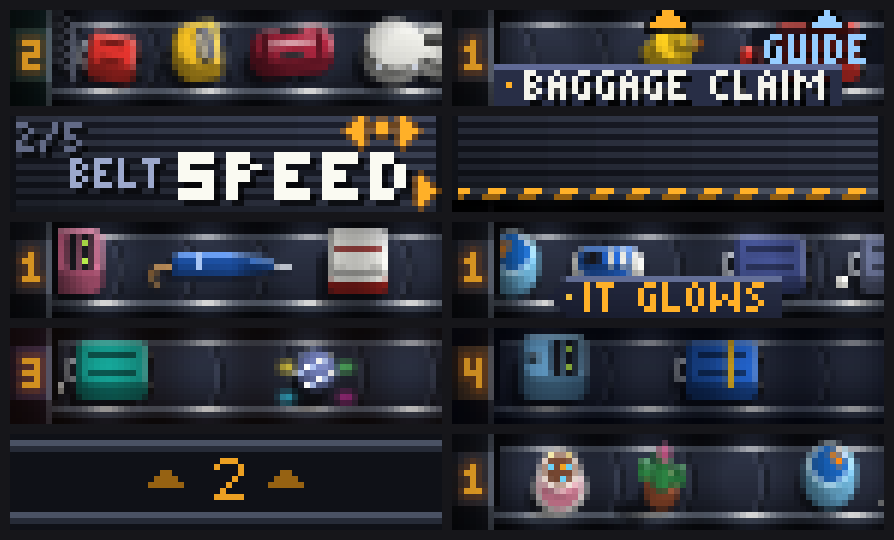
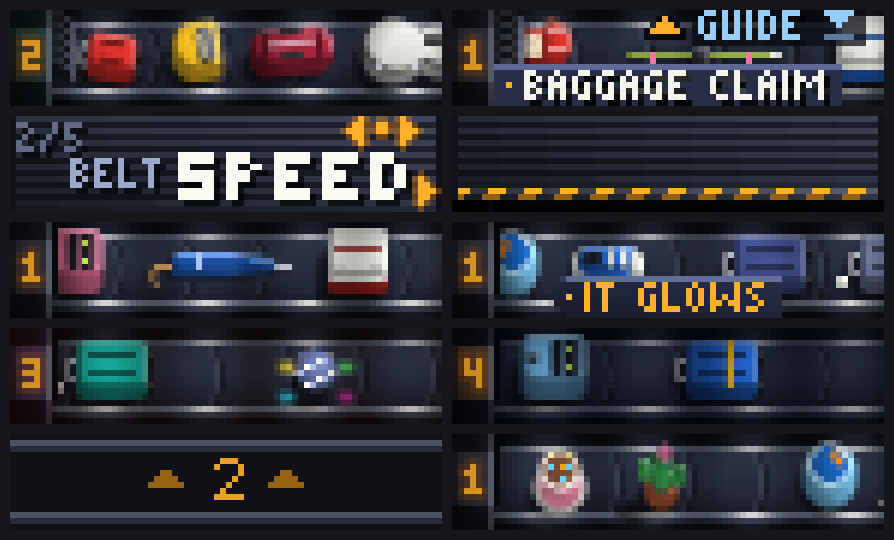
Baggage Claim: one mark for pressing the knob, Start mark that moves

Changed region(s): [[0.6946, 0.0, 0.9966, 0.1778], [0.5436, 0.0, 0.6644, 0.1185]]

diff --git a/baggage_claim/src/main.js b/baggage_claim/src/main.js
@@ -11,7 +11,7 @@
 // four belts and the things on them, the band, the flaps, the tag, the picture, the next belt, one look, the start).
 // All pictures are films in animations/, drawn by the author's own code; nothing is fetched from anywhere.
 
-const D = {"app":"io.github.windagh.baggage_claim","name":"Baggage Claim","kinds":[{"f":"hard","v":[[16,12,9,6],[16,12,9,6],[16,12,9,6],[18,12,11,6],[17,13,9,7],[16,12,9,6],[16,12,9,6],[17,13,9,7],[18,12,11,6]],"n":1,"ms":1000,"lat":0,"y":[-4.0,4.0],"g":[40,44]},{"f":"cabin","v":[[12,10,7,5],[13,11,7,6],[12,10,7,5],[12,10,7,5],[13,11,7,6]],"n":1,"ms":1000,"lat":0,"y":[-3.0,3.0],"g":[44,47]},{"f":"duffel","v":[[17,10,9,5],[17,10,9,5],[17,11,9,6],[17,10,9,5]],"n":1,"ms":1000,"lat":0,"y":[-3.0,3.0],"g":[34,52]},{"f":"backpack","v":[[12,12,7,6],[12,13,7,7],[12,12,7,6],[12,13,7,7]],"n":1,"ms":1000,"lat":0,"y":[-4.6,4.6],"g":[42,39]},{"f":"guitar","v":[[25,12,11,6],[25,12,11,6],[25,12,11,6]],"n":1,"ms":1000,"lat":0,"y":[-4.0,4.0],"g":[32,65]},{"f":"golf","v":[[22,10,12,5],[22,10,12,5],[22,10,12,5]],"n":1,"ms":1000,"lat":0,"y":[-3.0,3.0],"g":[41,50]},{"f":"skis","v":[[27,7,14,3],[27,7,14,3],[27,7,14,3]],"n":1,"ms":1000,"lat":0,"y":[-2.0,3.2],"g":[24,44]},{"f":"surf","v":[[29,8,15,4],[29,8,15,4],[29,8,15,4]],"n":1,"ms":1000,"lat":0,"y":[-3.0,3.1],"g":[46,51]},{"f":"box","v":[[13,12,7,6],[14,14,8,7],[13,12,7,6]],"n":1,"ms":1000,"lat":0,"y":[-4.0,4.0],"g":[36,40]},{"f":"pet","v":[[14,13,8,7],[14,13,8,7],[14,13,8,7]],"n":2,"ms":220,"lat":0,"y":[-4.0,4.0],"g":[30,46],"q":[0,0,0,0,0,0,0,0,0,0,0,0,0,1]},{"f":"pram","v":[[13,13,8,7],[13,13,8,7],[13,13,8,7]],"n":1,"ms":1000,"lat":0,"y":[-4.0,4.0],"g":[28,65]},{"f":"hatbox","v":[[11,12,6,6],[11,12,6,6],[11,12,6,6]],"n":1,"ms":1000,"lat":0,"y":[-4.0,4.0],"g":[37,56]},{"f":"cello","v":[[28,14,14,7],[28,14,14,7],[28,14,14,7]],"n":1,"ms":1000,"lat":0,"y":[-4.5,4.5],"g":[30,57]},{"f":"cooler","v":[[13,13,7,7],[13,13,7,7],[14,15,8,8]],"n":1,"ms":1000,"lat":0,"y":[-4.0,4.0],"g":[41,52]},{"f":"stickers","v":[[16,13,9,7],[16,13,9,7]],"n":1,"ms":1000,"lat":0,"y":[-4.0,4.0],"g":[24,45]},{"f":"wrapped","v":[[16,13,9,7],[16,13,9,7],[16,13,9,7]],"n":1,"ms":1000,"lat":0,"y":[-4.5,4.5],"g":[40,60]},{"f":"duo","v":[[22,12,12,6],[22,12,12,6],[22,12,12,6]],"n":1,"ms":1000,"lat":0,"y":[-4.0,4.0],"g":[52,59]},{"f":"briefcase","v":[[12,10,6,6],[13,11,7,6],[12,10,6,6]],"n":1,"ms":1000,"lat":0,"y":[-4.8,3.0],"g":[44,54]},{"f":"flightcase","v":[[15,12,8,6],[15,12,8,6]],"n":1,"ms":1000,"lat":0,"y":[-4.0,4.0],"g":[51,50]},{"f":"umbrella","v":[[25,7,13,3],[25,6,13,4],[25,9,13,4]],"n":1,"ms":1000,"lat":0,"y":[-2.0,3.1],"g":[44,67]},{"f":"trunk","v":[[16,13,9,7],[16,13,9,7]],"n":1,"ms":1000,"lat":0,"y":[-4.0,4.0],"g":[31,44]},{"f":"sleeper","v":[[28,13,16,7],[28,13,16,7],[28,13,16,7]],"n":8,"ms":420,"lat":0,"y":[-4.2,4.2],"g":[32,41],"s":1,"ni":4},{"f":"cat","v":[[16,13,9,7],[16,13,9,7],[16,13,9,7]],"n":8,"ms":200,"lat":0,"y":[-4.0,4.0],"g":[30,62],"s":1},{"f":"dog","v":[[22,12,11,6],[22,12,11,6],[22,12,11,6]],"n":6,"ms":140,"lat":0,"y":[-4.9,4.9],"g":[41,60],"s":1},{"f":"burst","v":[[27,11,16,6],[27,11,16,6]],"n":4,"ms":320,"lat":0,"y":[-4.0,4.0],"g":[50,62],"s":1},{"f":"shoe","v":[[15,9,8,4],[15,9,8,4],[15,9,8,4]],"n":4,"ms":300,"lat":0,"y":[-3.0,3.9],"g":[47,49],"s":1},{"f":"fishbowl","v":[[11,13,6,7]],"n":12,"ms":220,"lat":0,"y":[-4.5,4.5],"g":[40,51],"s":1},{"f":"cactus","v":[[12,15,8,9]],"n":4,"ms":180,"lat":2,"y":[-2.9,2.8],"g":[34,47],"s":1},{"f":"duck","v":[[12,10,7,5]],"n":8,"ms":260,"lat":0,"y":[-3.0,3.0],"g":[26,56],"s":1},{"f":"vacuum","v":[[11,12,6,6]],"n":6,"ms":170,"lat":0,"y":[-4.5,5.2],"g":[36,48],"s":1,"ag":1},{"f":"balloon","v":[[14,16,8,9],[14,16,8,9],[14,16,8,9]],"n":8,"ms":300,"lat":1,"y":[-2.0,4.0],"g":[39,40],"s":1},{"f":"pizza","v":[[13,15,7,9]],"n":9,"ms":220,"lat":1,"y":[-4.5,4.5],"g":[37,49],"s":1},{"f":"glow","v":[[18,15,9,8]],"n":6,"ms":200,"lat":0,"y":[-4.0,4.0],"g":[54,39],"q":[0,0,0,0,0,0,0,0,0,0,0,0,0,0,1,2,3,3,3,3,3,3,4,5],"s":1},{"f":"snowman","v":[[10,13,5,11]],"n":8,"ms":380,"lat":3,"y":[-1.5,1.0],"g":[44,60],"s":1,"mo":[12,1,2]},{"f":"present","v":[[12,14,7,8],[12,14,7,8],[12,14,7,8]],"n":8,"ms":220,"lat":0,"y":[-4.0,4.0],"g":[39,51],"s":1,"mo":[12]},{"f":"notmine","v":[[51,12,27,6]],"n":4,"ms":320,"lat":0,"y":[-4.0,4.0],"g":[43,44],"s":1},{"f":"twins","v":[[35,12,19,6]],"n":6,"ms":240,"lat":0,"y":[-4.0,4.0],"g":[48,59],"s":1},{"f":"toaster","v":[[17,13,11,7]],"n":5,"ms":130,"lat":0,"y":[-3.0,3.9],"g":[38,38],"q":[0,0,0,0,0,0,0,0,0,0,0,0,0,0,0,0,0,0,1,2,3,3,3,3,3,3,3,3,4],"s":1},{"f":"penguin","v":[[12,11,6,9]],"n":6,"ms":200,"lat":3,"y":[-1.5,1.0],"g":[38,52],"s":1},{"f":"disco","v":[[18,12,9,6]],"n":8,"ms":160,"lat":1,"y":[-3.0,3.0],"g":[47,55],"s":1},{"f":"cake","v":[[11,13,6,7]],"n":6,"ms":150,"lat":1,"y":[-4.5,4.5],"g":[26,52],"s":1},{"f":"pumpkin","v":[[16,14,8,7]],"n":8,"ms":140,"lat":1,"y":[-3.9,3.8],"g":[39,64],"s":1,"mo":[10]}],"none":[38,47],"speeds":[0,3,6,12],"pitch":12,"flapMs":900,"reach":5,"shutUp":850,"shutDown":450,"strikeMs":1150,"pages":5,"fadeMs":400,"sets":["22","13","04","24","34"],"ptr":"! XPM2\n5 3 2 1\n. c none\na c #FFB028\n..a..\n.aaa.\naaaaa"};
+const D = {"app":"io.github.windagh.baggage_claim","name":"Baggage Claim","kinds":[{"f":"hard","v":[[16,12,9,6],[16,12,9,6],[16,12,9,6],[18,12,11,6],[17,13,9,7],[16,12,9,6],[16,12,9,6],[17,13,9,7],[18,12,11,6]],"n":1,"ms":1000,"lat":0,"y":[-4.0,4.0],"g":[40,44]},{"f":"cabin","v":[[12,10,7,5],[13,11,7,6],[12,10,7,5],[12,10,7,5],[13,11,7,6]],"n":1,"ms":1000,"lat":0,"y":[-3.0,3.0],"g":[44,47]},{"f":"duffel","v":[[17,10,9,5],[17,10,9,5],[17,11,9,6],[17,10,9,5]],"n":1,"ms":1000,"lat":0,"y":[-3.0,3.0],"g":[34,52]},{"f":"backpack","v":[[12,12,7,6],[12,13,7,7],[12,12,7,6],[12,13,7,7]],"n":1,"ms":1000,"lat":0,"y":[-4.6,4.6],"g":[42,39]},{"f":"guitar","v":[[25,12,11,6],[25,12,11,6],[25,12,11,6]],"n":1,"ms":1000,"lat":0,"y":[-4.0,4.0],"g":[32,65]},{"f":"golf","v":[[22,10,12,5],[22,10,12,5],[22,10,12,5]],"n":1,"ms":1000,"lat":0,"y":[-3.0,3.0],"g":[41,50]},{"f":"skis","v":[[27,7,14,3],[27,7,14,3],[27,7,14,3]],"n":1,"ms":1000,"lat":0,"y":[-2.0,3.2],"g":[24,44]},{"f":"surf","v":[[29,8,15,4],[29,8,15,4],[29,8,15,4]],"n":1,"ms":1000,"lat":0,"y":[-3.0,3.1],"g":[46,51]},{"f":"box","v":[[13,12,7,6],[14,14,8,7],[13,12,7,6]],"n":1,"ms":1000,"lat":0,"y":[-4.0,4.0],"g":[36,40]},{"f":"pet","v":[[14,13,8,7],[14,13,8,7],[14,13,8,7]],"n":2,"ms":220,"lat":0,"y":[-4.0,4.0],"g":[30,46],"q":[0,0,0,0,0,0,0,0,0,0,0,0,0,1]},{"f":"pram","v":[[13,13,8,7],[13,13,8,7],[13,13,8,7]],"n":1,"ms":1000,"lat":0,"y":[-4.0,4.0],"g":[28,65]},{"f":"hatbox","v":[[11,12,6,6],[11,12,6,6],[11,12,6,6]],"n":1,"ms":1000,"lat":0,"y":[-4.0,4.0],"g":[37,56]},{"f":"cello","v":[[28,14,14,7],[28,14,14,7],[28,14,14,7]],"n":1,"ms":1000,"lat":0,"y":[-4.5,4.5],"g":[30,57]},{"f":"cooler","v":[[13,13,7,7],[13,13,7,7],[14,15,8,8]],"n":1,"ms":1000,"lat":0,"y":[-4.0,4.0],"g":[41,52]},{"f":"stickers","v":[[16,13,9,7],[16,13,9,7]],"n":1,"ms":1000,"lat":0,"y":[-4.0,4.0],"g":[24,45]},{"f":"wrapped","v":[[16,13,9,7],[16,13,9,7],[16,13,9,7]],"n":1,"ms":1000,"lat":0,"y":[-4.5,4.5],"g":[40,60]},{"f":"duo","v":[[22,12,12,6],[22,12,12,6],[22,12,12,6]],"n":1,"ms":1000,"lat":0,"y":[-4.0,4.0],"g":[52,59]},{"f":"briefcase","v":[[12,10,6,6],[13,11,7,6],[12,10,6,6]],"n":1,"ms":1000,"lat":0,"y":[-4.8,3.0],"g":[44,54]},{"f":"flightcase","v":[[15,12,8,6],[15,12,8,6]],"n":1,"ms":1000,"lat":0,"y":[-4.0,4.0],"g":[51,50]},{"f":"umbrella","v":[[25,7,13,3],[25,6,13,4],[25,9,13,4]],"n":1,"ms":1000,"lat":0,"y":[-2.0,3.1],"g":[44,67]},{"f":"trunk","v":[[16,13,9,7],[16,13,9,7]],"n":1,"ms":1000,"lat":0,"y":[-4.0,4.0],"g":[31,44]},{"f":"sleeper","v":[[28,13,16,7],[28,13,16,7],[28,13,16,7]],"n":8,"ms":420,"lat":0,"y":[-4.2,4.2],"g":[32,41],"s":1,"ni":4},{"f":"cat","v":[[16,13,9,7],[16,13,9,7],[16,13,9,7]],"n":8,"ms":200,"lat":0,"y":[-4.0,4.0],"g":[30,62],"s":1},{"f":"dog","v":[[22,12,11,6],[22,12,11,6],[22,12,11,6]],"n":6,"ms":140,"lat":0,"y":[-4.9,4.9],"g":[41,60],"s":1},{"f":"burst","v":[[27,11,16,6],[27,11,16,6]],"n":4,"ms":320,"lat":0,"y":[-4.0,4.0],"g":[50,62],"s":1},{"f":"shoe","v":[[15,9,8,4],[15,9,8,4],[15,9,8,4]],"n":4,"ms":300,"lat":0,"y":[-3.0,3.9],"g":[47,49],"s":1},{"f":"fishbowl","v":[[11,13,6,7]],"n":12,"ms":220,"lat":0,"y":[-4.5,4.5],"g":[40,51],"s":1},{"f":"cactus","v":[[12,15,8,9]],"n":4,"ms":180,"lat":2,"y":[-2.9,2.8],"g":[34,47],"s":1},{"f":"duck","v":[[12,10,7,5]],"n":8,"ms":260,"lat":0,"y":[-3.0,3.0],"g":[26,56],"s":1},{"f":"vacuum","v":[[11,12,6,6]],"n":6,"ms":170,"lat":0,"y":[-4.5,5.2],"g":[36,48],"s":1,"ag":1},{"f":"balloon","v":[[14,16,8,9],[14,16,8,9],[14,16,8,9]],"n":8,"ms":300,"lat":1,"y":[-2.0,4.0],"g":[39,40],"s":1},{"f":"pizza","v":[[13,15,7,9]],"n":9,"ms":220,"lat":1,"y":[-4.5,4.5],"g":[37,49],"s":1},{"f":"glow","v":[[18,15,9,8]],"n":6,"ms":200,"lat":0,"y":[-4.0,4.0],"g":[54,39],"q":[0,0,0,0,0,0,0,0,0,0,0,0,0,0,1,2,3,3,3,3,3,3,4,5],"s":1},{"f":"snowman","v":[[10,13,5,11]],"n":8,"ms":380,"lat":3,"y":[-1.5,1.0],"g":[44,60],"s":1,"mo":[12,1,2]},{"f":"present","v":[[12,14,7,8],[12,14,7,8],[12,14,7,8]],"n":8,"ms":220,"lat":0,"y":[-4.0,4.0],"g":[39,51],"s":1,"mo":[12]},{"f":"notmine","v":[[51,12,27,6]],"n":4,"ms":320,"lat":0,"y":[-4.0,4.0],"g":[43,44],"s":1},{"f":"twins","v":[[35,12,19,6]],"n":6,"ms":240,"lat":0,"y":[-4.0,4.0],"g":[48,59],"s":1},{"f":"toaster","v":[[17,13,11,7]],"n":5,"ms":130,"lat":0,"y":[-3.0,3.9],"g":[38,38],"q":[0,0,0,0,0,0,0,0,0,0,0,0,0,0,0,0,0,0,1,2,3,3,3,3,3,3,3,3,4],"s":1},{"f":"penguin","v":[[12,11,6,9]],"n":6,"ms":200,"lat":3,"y":[-1.5,1.0],"g":[38,52],"s":1},{"f":"disco","v":[[18,12,9,6]],"n":8,"ms":160,"lat":1,"y":[-3.0,3.0],"g":[47,55],"s":1},{"f":"cake","v":[[11,13,6,7]],"n":6,"ms":150,"lat":1,"y":[-4.5,4.5],"g":[26,52],"s":1},{"f":"pumpkin","v":[[16,14,8,7]],"n":8,"ms":140,"lat":1,"y":[-3.9,3.8],"g":[39,64],"s":1,"mo":[10]}],"none":[38,47],"speeds":[0,3,6,12],"pitch":12,"flapMs":900,"reach":5,"shutUp":850,"shutDown":450,"strikeMs":1150,"pages":5,"fadeMs":400,"pressPage":2,"pressX":60,"startPage":0,"startX":32,"sets":["22","13","04","24","34"],"ptr":"! XPM2\n5 3 2 1\n. c none\na c #FFB028\n..a..\n.aaa.\naaaaa"};
 // ===== core.js =====
 const APP = D.app;
 const API = "http://localhost/api/";
@@ -805,8 +805,8 @@ for (let n = 0; n < SLOTS; n++) {                      // the places not in use 
 if (!used[n]) list.push(["t" + n, 0, K[0].f + "0", "f0", OFFX, 0, Z.thing, 120]);
 }
 list.push(fixed[1], flaps(now, st, dx), now < flashEnd ? fixed[3] : fixed[2]);    // (the lamps flare: no dark between the pools)
-list.push(DOWN);                                       // (the shutter that can come down: always there, showing nothing)
-if (title) list.push(title.fade ? TITLE_OFF : TITLE_ON);
+list.push(DOWN, markOk(false), markStart(false));      // (the shutter that can come down, the guide's two marks that
+if (title) list.push(title.fade ? TITLE_OFF : TITLE_ON, ["sn", 0, "start", "a", title.fade ? OFFX : D.startX, 0, Z.title + 1, 120]);   // are films: always there, out of sight)
 list.push(SLAB);                                       // (the slab between two floors: always there, out of sight; the last)
 return list;
 }
@@ -823,6 +823,23 @@ saveDue = now + 1500;
 const SLAB = ["lf", 0, "lift", "n1", 0, -40, Z.lift, 120];
 const DOWN = ["sd", 0, "shutter", "clear", 0, 0, Z.shutter + 1, 120];
 const TITLE_ON = ["ti", 0, "title", "on", 0, 0, Z.title, 120], TITLE_OFF = ["ti", 1, "title", "fade", 0, 0, Z.title, 120];
+const markOk = (on) => ["pm", 0, "press", "a", on ? D.pressX : OFFX, 0, Z.signs + 1, 120];
+const markStart = (on) => ["sm", 0, "start", "a", on ? D.startX : OFFX, 0, Z.signs + 1, 120];
+function setMarks(list, page, on) {
+let ok = false, st = false;
+for (let i = 0; i < list.length; i++) {
+if (list[i][0] === "pm") {
+list[i] = markOk(on && page === D.pressPage);
+ok = true;
+} else if (list[i][0] === "sm") {
+list[i] = markStart(on && page === D.startPage);
+st = true;
+}
+}
+if (!ok) list.unshift(markOk(on && page === D.pressPage));
+if (!st) list.unshift(markStart(on && page === D.startPage));
+return list;
+}
 const SLAB_IN = [-12, -7, -3, 0], SLAB_OUT = [3, 8, 13, 17];
 async function nextBelt() {
 let now = Date.now();
@@ -999,7 +1016,7 @@ while (!stopped) {
 if (startOver) {                                     // "Start over": said on the shutter, then the guide from its first page
 await clearAll(Date.now());
 guideAsked = false;
-await sync([SHUT, sign("R")], 0, true);
+await sync(setMarks([SHUT, sign("R")], 0, false), 0, true);
 list = null;                                       // (the hall behind is made anew)
 page = 0;
 await sleep(1500);
@@ -1008,17 +1025,18 @@ backs = 0;
 }
 const show = sign(book() ? "p" + (page + 1) : "off");
 if (!list) {                                         // the hall behind the shutter: made off-screen, then moved into place
-await sync([SHUT, show], 0, true);
+await sync(setMarks([SHUT, show], page, book()), 0, true);
 list = shutHall(Date.now());
-await sync(list, OFFX, true);
-await sync(list, 0, true);
+const behind = list.filter((el) => el[0] !== "pm" && el[0] !== "sm");     // (the page's mark stays where it is)
+await sync(behind, OFFX, true);
+await sync(behind, 0, true);
 list.push(SHUT, show);
 } else if (list[list.length - 1][0] !== "sg") {
 list.push(SHUT, show);
 } else {
 list[list.length - 1] = show;
 }
-await sync(list, 0);
+await sync(setMarks(list, page, book()), 0);
 if (!book()) {                                       // no book: the shutter stands a moment, and opens
 await sleep(500);
 await readSettings();
@@ -1064,6 +1082,7 @@ page = clamp(page + step, 0, D.pages - 1);
 onBack = null;
 if (stopped) return;
 noKeys();
+setMarks(list, 0, false);
 list.pop();
 list[list.length - 1] = ["st", 1, "shutter", "up", 0, 0, Z.shutter, 120];
 await sync(list, 0);
@@ -1109,7 +1128,7 @@ await sync(list, 0);
 await sleep(D.shutDown + 60);
 list.push(SHUT, sign("off"));
 await sync(list, 0);
-await sync([SHUT, sign("off")], 0);                    // (the hall behind is taken away: it is made anew)
+await sync(setMarks([SHUT, sign("off")], 0, false), 0);    // (the hall behind is taken away: it is made anew)
 }
 async function main() {
 const t0 = Date.now();
@@ -1120,7 +1139,7 @@ await readSettings();
 light = lightNow();
 fill(Date.now());
 let flipped = startOver;
-const front = [SHUT, sign(flipped ? "R" : seenGuide ? "off" : "p1")];   // (flipped while the app was closed: the shutter says so)
+const front = setMarks([SHUT, sign(flipped ? "R" : seenGuide ? "off" : "p1")], 0, !flipped && !seenGuide);   // (flipped while the app was closed: the shutter says so)
 await sync(front, OFFX, true);
 await sleep(SPLASH_MS - 250 - (Date.now() - t0));
 await sync(front, 0, true);                            // (under the film, which hides everything)
